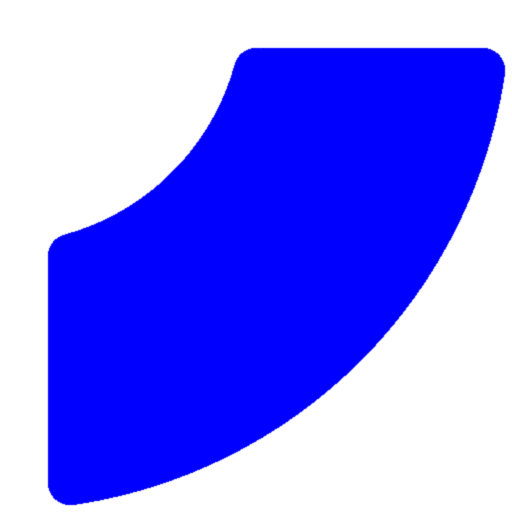
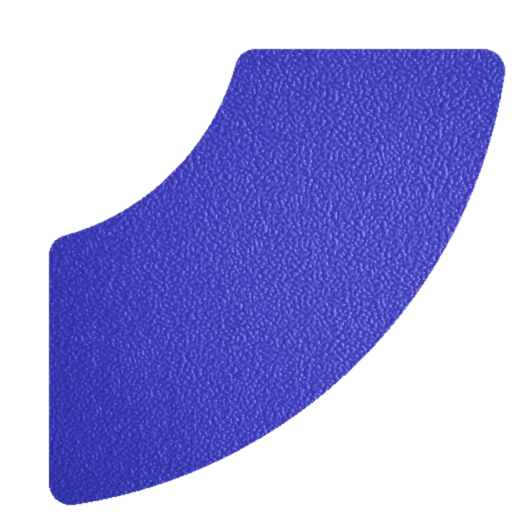
Feathered button edges, Polished buttons (added plastic texture)

diff --git a/core/src/com/mygdx/game/XimonGame.java b/core/src/com/mygdx/game/XimonGame.java
@@ -5,29 +5,20 @@ import com.badlogic.gdx.ApplicationAdapter;
 import com.badlogic.gdx.Gdx;
 
 import com.badlogic.gdx.InputProcessor;
-import com.badlogic.gdx.audio.Sound;
-import com.badlogic.gdx.graphics.Camera;
 import com.badlogic.gdx.graphics.GL20;
 
 import com.badlogic.gdx.graphics.OrthographicCamera;
-import com.badlogic.gdx.graphics.Texture;
-import com.badlogic.gdx.graphics.g2d.Batch;
-import com.badlogic.gdx.graphics.g2d.Sprite;
 import com.badlogic.gdx.graphics.g2d.SpriteBatch;
-import com.badlogic.gdx.scenes.scene2d.Actor;
-import com.badlogic.gdx.scenes.scene2d.EventListener;
 import com.badlogic.gdx.scenes.scene2d.Stage;
-import com.badlogic.gdx.scenes.scene2d.ui.HorizontalGroup;
 import com.badlogic.gdx.scenes.scene2d.ui.Skin;
-import com.badlogic.gdx.scenes.scene2d.ui.WidgetGroup;
 import com.badlogic.gdx.utils.viewport.FitViewport;
 
 
 public class XimonGame extends ApplicationAdapter implements InputProcessor {
+
     private SpriteBatch batch;
     private Stage stage;
     private OrthographicCamera camera;
-    private Skin skin;
 
 
     @Override
@@ -50,23 +41,22 @@ public class XimonGame extends ApplicationAdapter implements InputProcessor {
         System.out.println(actor_b.toString() + " created.");
 
 
-//        Adding actors and assigning sprites to them
+//        Adding actors
 //
-//        Actor - Green button:
+        // Green button:
         stage.addActor(actor_g);
 
-        // Actor - Blue button:
+        // Blue button:
         stage.addActor(actor_b);
 
-        // Actor - Red button:
+        // Red button:
         stage.addActor(actor_r);
 
-        // Actor - Yellow button:
+        // Yellow button:
         stage.addActor(actor_y);
 
 
         Gdx.input.setInputProcessor(stage);
-
 
     }
     @Override
@@ -89,18 +79,18 @@ public class XimonGame extends ApplicationAdapter implements InputProcessor {
 
     @Override
     public void resize (int width, int height) {
-
+            super.resize(width, height);
     }
 
     @Override
     public void pause () {
-
+        super.pause();
     }
 
 
     @Override
     public void resume () {
-
+        super.resume();
     }
 
 
